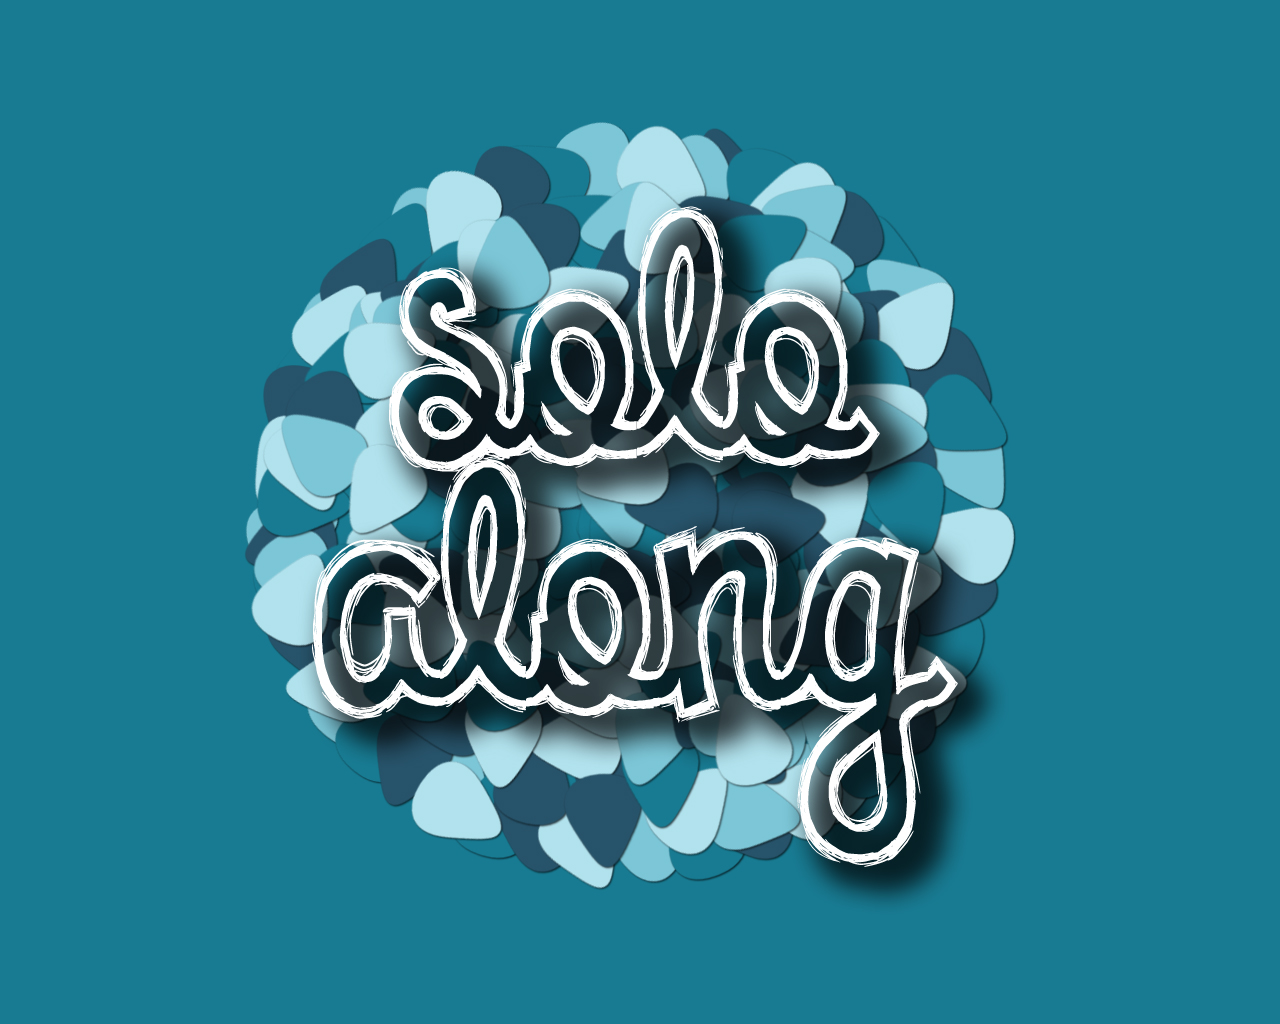
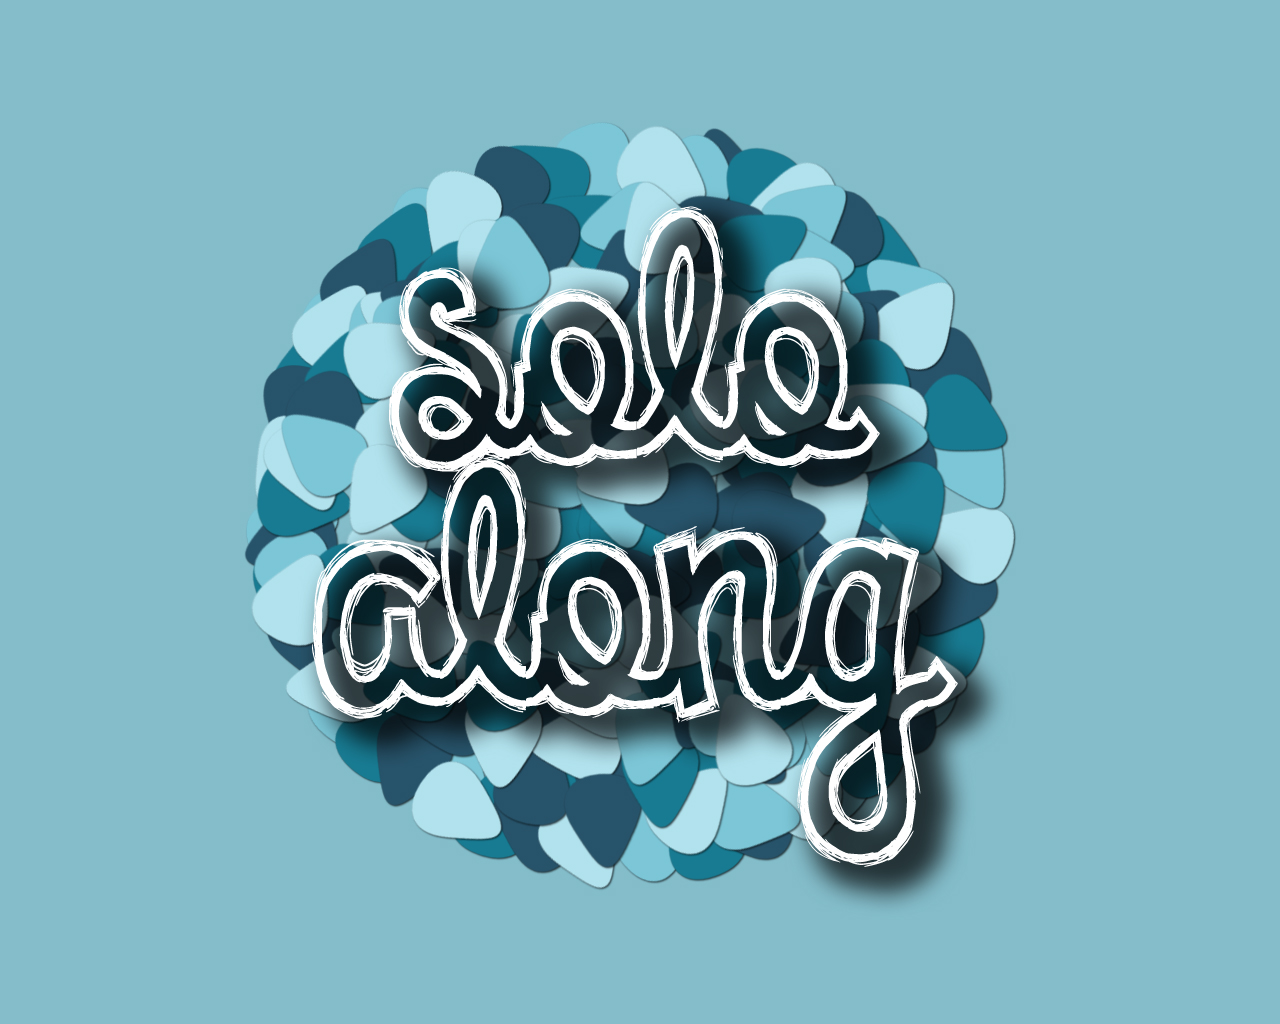
changes to color.

diff --git a/public/css/index.css b/public/css/index.css
@@ -1,5 +1,5 @@
 body {
-    background-color: rgb(24, 123, 146);
+    background-color: rgb(132, 189, 202);
     padding-top: 90px;
 }
 .panel-login {
